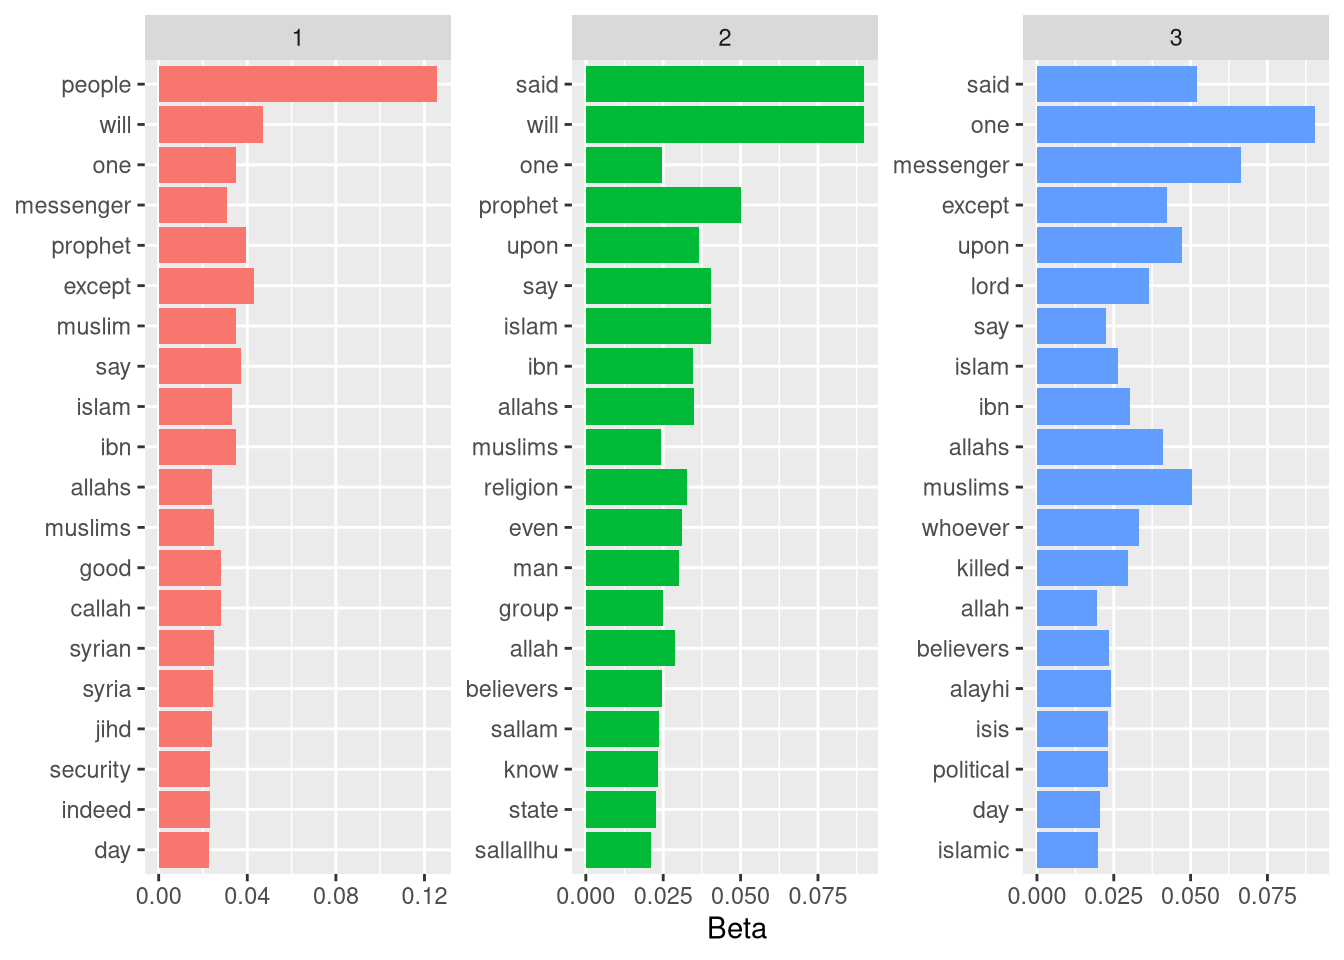
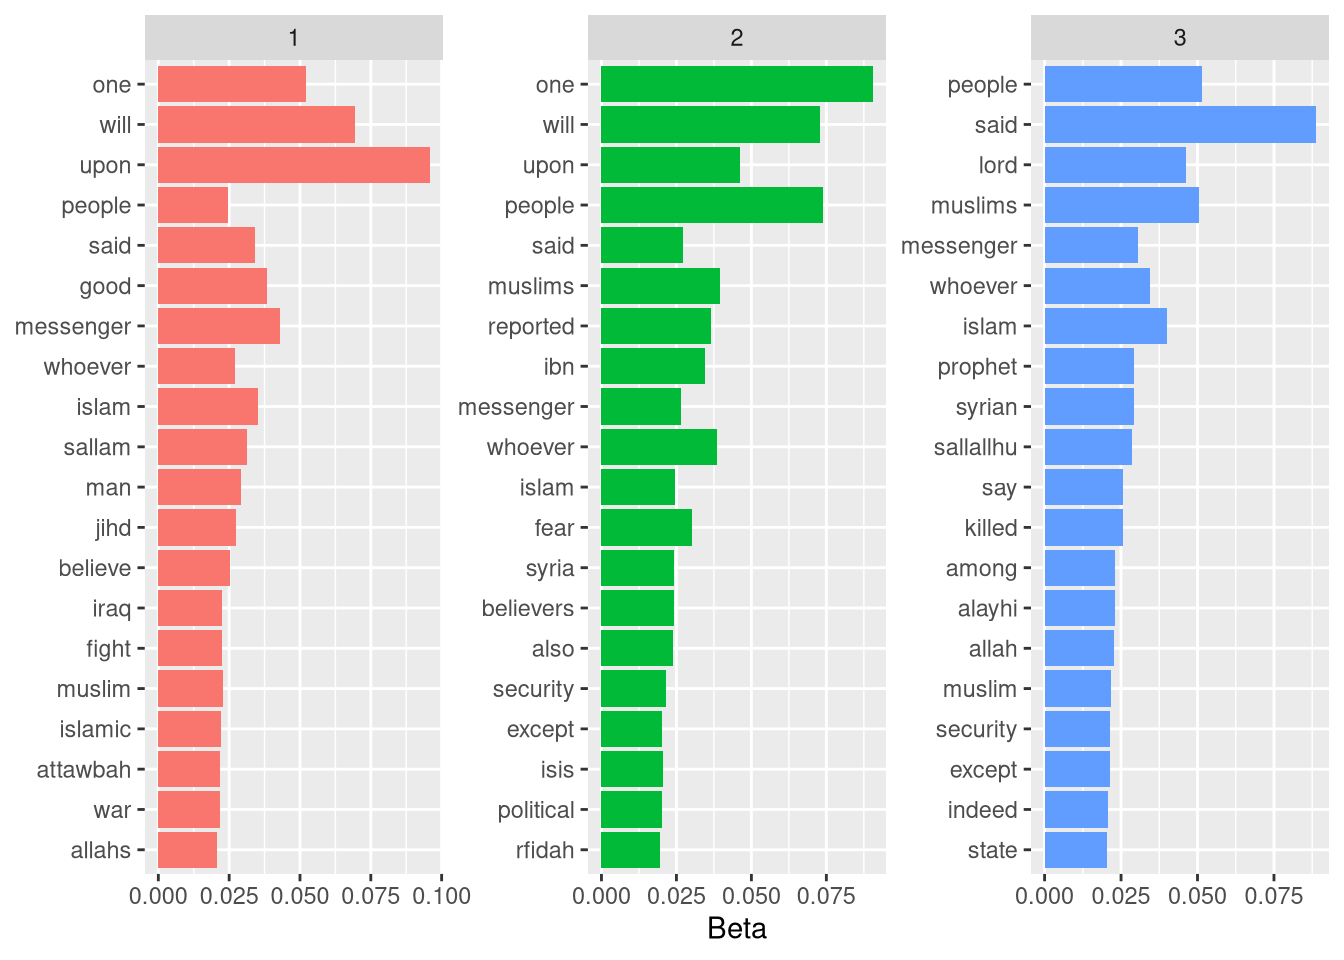
as

diff --git a/public/post/isis-nlp-analysis/index.html b/public/post/isis-nlp-analysis/index.html
@@ -221,16 +221,16 @@ res</code></pre>
 <pre><code>## # A tibble: 60 x 3
 ##    topic term         beta
 ##    &lt;int&gt; &lt;chr&gt;       &lt;dbl&gt;
-##  1     1 allah     0.0522 
-##  2     1 said      0.0260 
-##  3     1 will      0.0123 
-##  4     1 people    0.0109 
-##  5     1 indeed    0.0104 
-##  6     1 messenger 0.00959
-##  7     1 one       0.00861
-##  8     1 whoever   0.00747
-##  9     1 upon      0.00747
-## 10     1 religion  0.00720
+##  1     1 allah     0.0581 
+##  2     1 will      0.0240 
+##  3     1 said      0.0158 
+##  4     1 indeed    0.0117 
+##  5     1 people    0.0114 
+##  6     1 upon      0.00826
+##  7     1 one       0.00749
+##  8     1 messenger 0.00748
+##  9     1 lord      0.00745
+## 10     1 say       0.00685
 ## # … with 50 more rows</code></pre>
 <p>O trecho acima é bem auto-explicativo, até mesmo devido aos comentários no código. Informações extras podem ser encontradas na documentação das funções.</p>
 <p>Vamos plotar as informações que conseguimos, assim é possível visualizarmos melhor o resultado.</p>

diff --git a/content/post/2020-04-22-escola-isis-de-radicalizacao-religiosa-uma-analise-com-nlp.html b/content/post/2020-04-22-escola-isis-de-radicalizacao-religiosa-uma-analise-com-nlp.html
@@ -94,16 +94,16 @@ res</code></pre>
 <pre><code>## # A tibble: 60 x 3
 ##    topic term         beta
 ##    &lt;int&gt; &lt;chr&gt;       &lt;dbl&gt;
-##  1     1 allah     0.0522 
-##  2     1 said      0.0260 
-##  3     1 will      0.0123 
-##  4     1 people    0.0109 
-##  5     1 indeed    0.0104 
-##  6     1 messenger 0.00959
-##  7     1 one       0.00861
-##  8     1 whoever   0.00747
-##  9     1 upon      0.00747
-## 10     1 religion  0.00720
+##  1     1 allah     0.0581 
+##  2     1 will      0.0240 
+##  3     1 said      0.0158 
+##  4     1 indeed    0.0117 
+##  5     1 people    0.0114 
+##  6     1 upon      0.00826
+##  7     1 one       0.00749
+##  8     1 messenger 0.00748
+##  9     1 lord      0.00745
+## 10     1 say       0.00685
 ## # … with 50 more rows</code></pre>
 <p>O trecho acima é bem auto-explicativo, até mesmo devido aos comentários no código. Informações extras podem ser encontradas na documentação das funções.</p>
 <p>Vamos plotar as informações que conseguimos, assim é possível visualizarmos melhor o resultado.</p>
